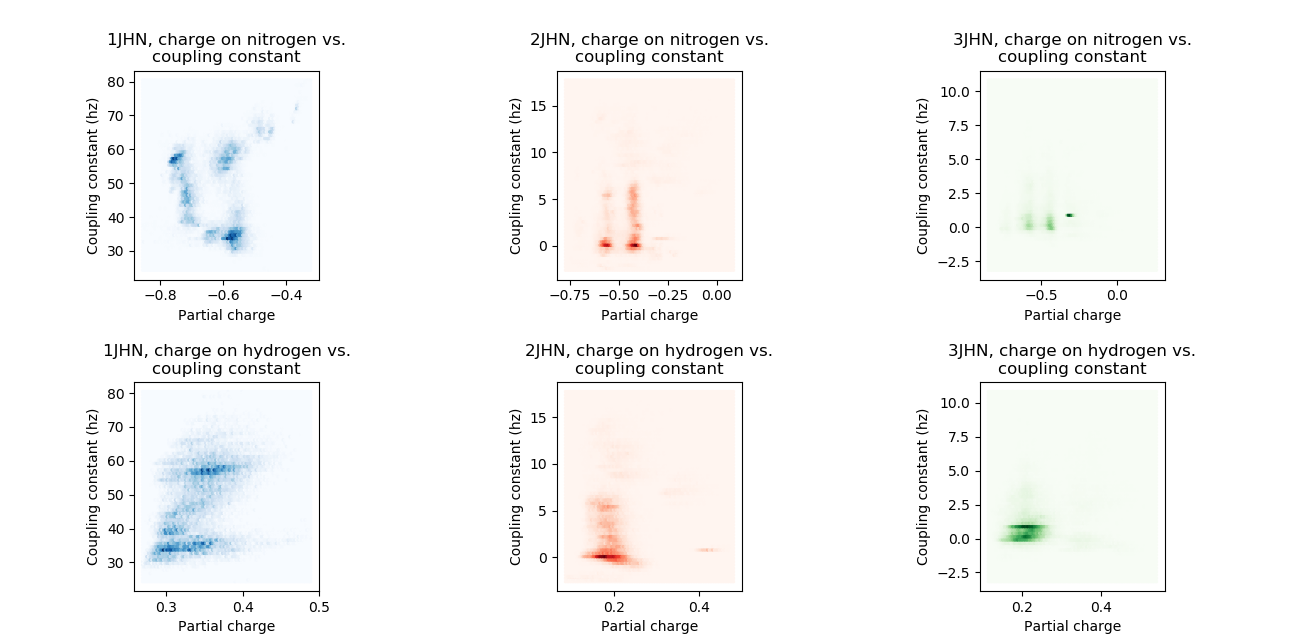
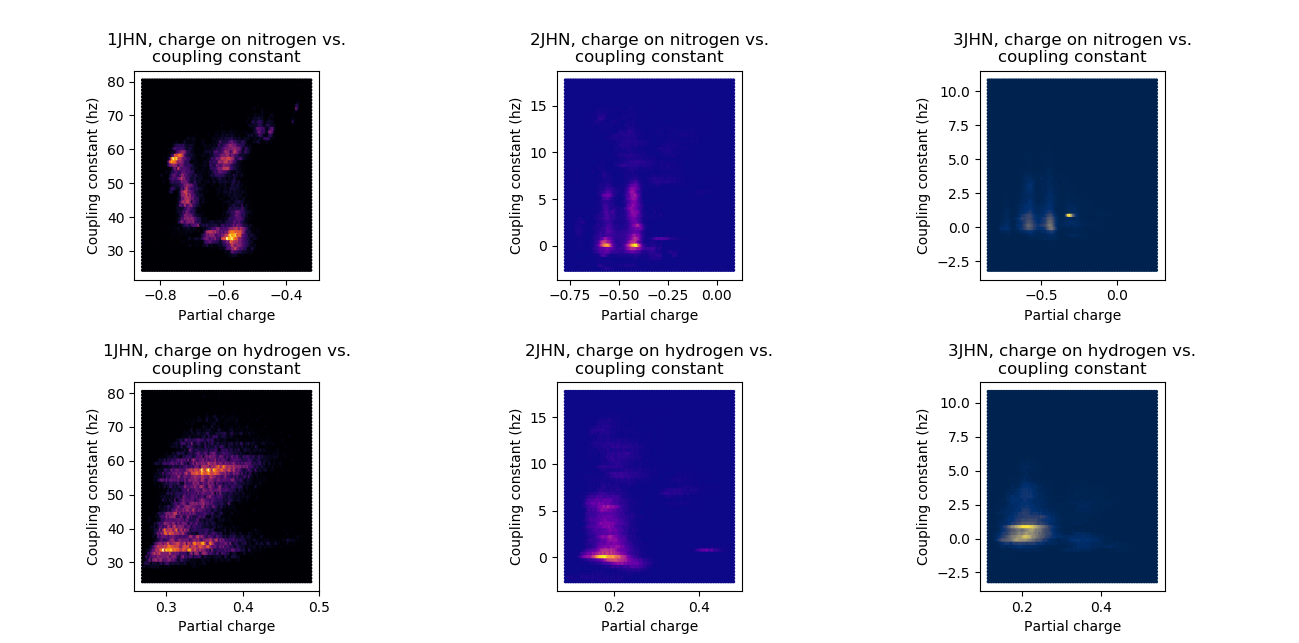
more figures

diff --git a/datareader.py b/datareader.py
@@ -73,12 +73,12 @@ for i in range(0, x3.shape[0]):
 
 import seaborn as sns
 fig, axes = plt.subplots(nrows=2,ncols=3)
-axes[0][0].hexbin(jhn1charges[:,0], y2, cmap='Blues')
-axes[1][0].hexbin(jhn1charges[:,1], y2, cmap='Blues')
-axes[0][1].hexbin(jhn2charges[:,0], y3, cmap='Reds')
-axes[1][1].hexbin(jhn2charges[:,1], y3, cmap='Reds')
-axes[0][2].hexbin(jhn3charges[:,0], y, cmap='Greens')
-axes[1][2].hexbin(jhn3charges[:,1], y, cmap='Greens')
+axes[0][0].hexbin(jhn1charges[:,0], y2, cmap='inferno')
+axes[1][0].hexbin(jhn1charges[:,1], y2, cmap='inferno')
+axes[0][1].hexbin(jhn2charges[:,0], y3, cmap='plasma')
+axes[1][1].hexbin(jhn2charges[:,1], y3, cmap='plasma')
+axes[0][2].hexbin(jhn3charges[:,0], y, cmap='cividis')
+axes[1][2].hexbin(jhn3charges[:,1], y, cmap='cividis')
 axes[0][0].set_title('1JHN, charge on nitrogen vs.\ncoupling constant')
 axes[1][0].set_title('1JHN, charge on hydrogen vs.\ncoupling constant')
 axes[0][1].set_title('2JHN, charge on nitrogen vs.\ncoupling constant')

diff --git a/README.md b/README.md
@@ -1,14 +1,14 @@
-# Machine Learning for Prediction of Molecular Properties using a graph convolutional network
-This project is my submission for the Kaggle "Predicting Molecular Properties" competition, where the goal is to predict NMR coupling constants for 2,505,541 atom pairs in the test set, using a training set of 4,658,147 atom pairs.
+# Machine Learning for prediction of molecular properties using a graph convolutional network
+This project is my pipeline for generating submissions for the Kaggle "Predicting Molecular Properties" competition. The goal is to predict NMR coupling constants for 2,505,541 atom pairs in the test set, using a training set of 4,658,147 atom pairs.
 
-I started on the contest two weeks before it ended, so time pressure was a factor in my choice of strategy. My submission achieved a score in the top 40% of entries -- not fantastic, but a start. My pipeline (shell script, python scripts, training and test datasets, molecular structures) are included. Below I've outlined my strategy, features, the structure of my model(a graph convolutional NN implemented in PyTorch) and how I think this could be improved if I were to try this again.
+I started on the contest two weeks before it ended, so time pressure was a factor in my choice of strategy. My submission achieved a score in the top 40% of entries -- ok for a start. My pipeline (shell script, python scripts, training and test datasets, molecular structures) are included. Below I've outlined my strategy, features, the structure of my model(a graph convolutional NN implemented in PyTorch) and how I think this could be improved if I were to try this again.
 
 ## Background
 NMR is a technique related to MRI used by synthetic chemists to determine the structure of a molecule, like "MRI for molecules". Among the outputs generated by NMR are floating-point values called coupling constants, caused by magnetic interactions between pairs of atoms in molecules. The coupling constant for a specific pair of atoms in a molecule can be predicted using physics, but the calculations involved are computationally quite expensive - <img src="https://latex.codecogs.com/gif.latex?O_t=\text { O(N^4) } t" /> or worse -- which means you don't want to do that unless you absolutely have to.
 
 If coupling constants for specific atom pairs could be accurately predicted directly from the molecular structure, it would be very helpful for building software to automatically determine structure from NMR data (look, no synthetic chemists required!) Molecular structures are graphs where atoms are vertices and edges are bonds. This dataset gives us 3D molecular structures, so for each vertex in each graph we have Cartesian coordinates, as for example:
 
-![figure 0](fig0.jpeg)
+![figure 0](fig0.png)
 
 I've never worked with NMR data, my background is comp bio / comp chem not synthesis, but I had a little domain knowledge thanks to my background...and after I dug up my old organic chemistry textbook and skimmed a couple chapters I had quite a bit more :). Vollhardt and Schore have various rules-of-thumb for making rough coupling constant predictions. They identify the key factors as these:
 
